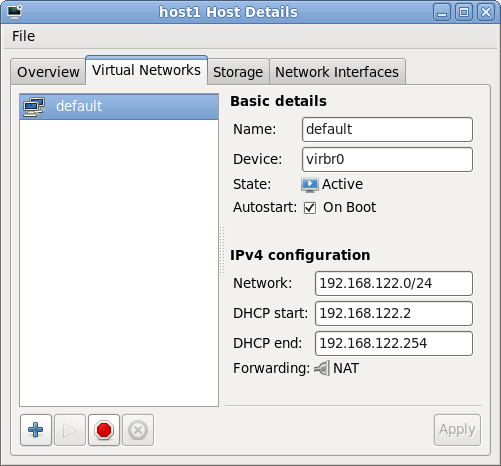
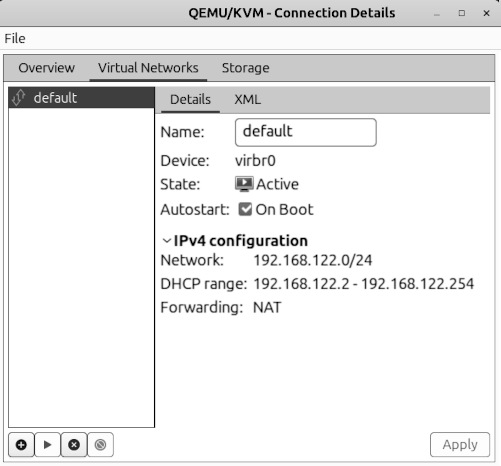
wiki: Upd img in accordance with new interface

Changed region(s): [[0.0, 0.0, 1.0, 1.0], [0.4491, 0.721, 0.5988, 0.7511]]

diff --git a/wiki/VirtualNetworking.rst b/wiki/VirtualNetworking.rst
@@ -270,7 +270,9 @@ from the physical network, no real damage can be done.
 The Virtual Machine Manager (virt-manager)
 ------------------------------------------
 
-In virt-manager is possibility to view and manage virtual networks.
+In virt-manager is possibility to view and manage virtual networks. To
+open "QEMU/KVM - Connection Details" window in "Virtual Machine Manager"
+choouse Edit->Connection Details.
 Information available through virt-manager can be seen in this image:
 
 .. image:: images/Virtual_network_tab_default_overview.png
